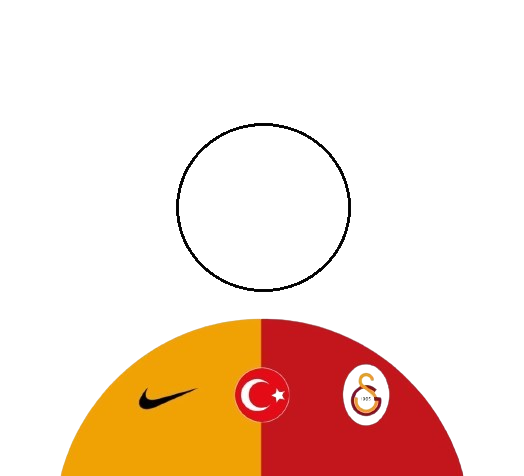
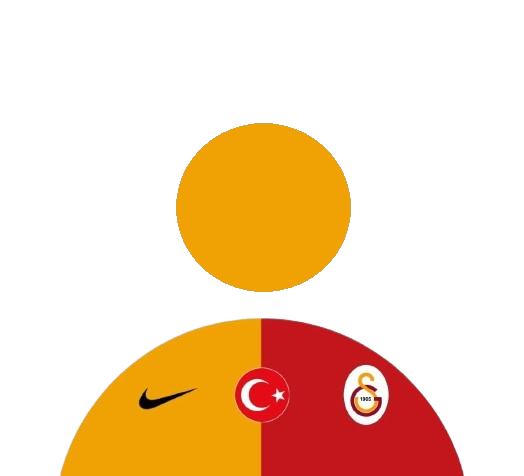
change user img + inputbox - outline (none)

diff --git a/style.css b/style.css
@@ -93,6 +93,10 @@ body {
   margin: 0.5rem 0 0.3rem 0;
 }
 
+.form input {
+  outline: none;
+}
+
 .form .contact {
   margin-bottom: 2rem;
 }
